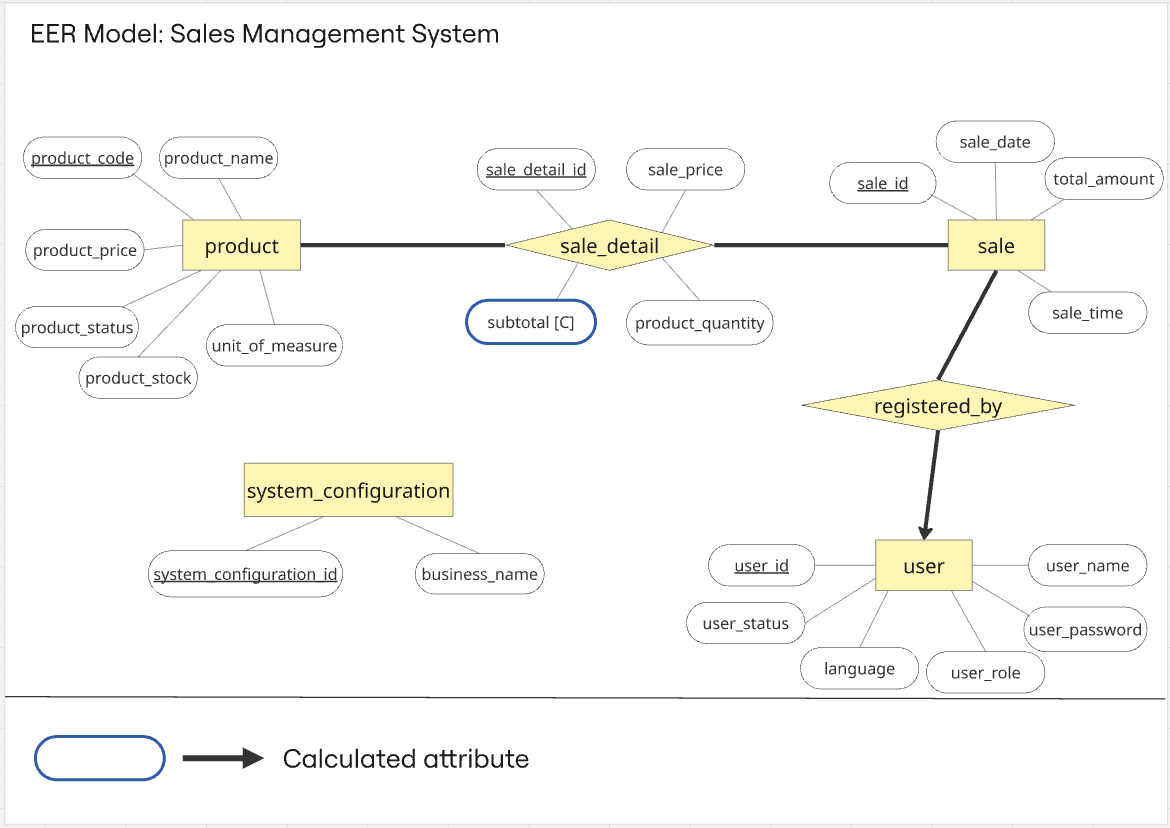
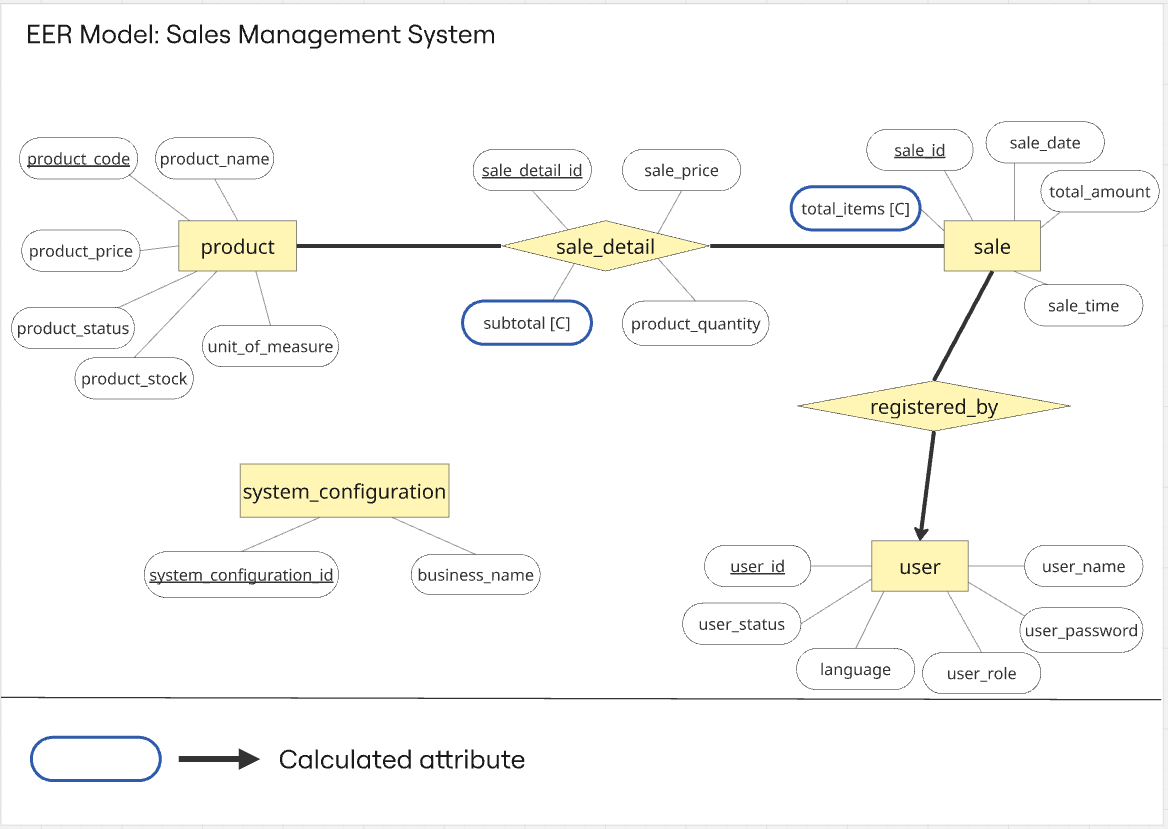
docs: add calculated total_items to EER model

diff --git a/docs/functional_requirements.md b/docs/functional_requirements.md
@@ -276,9 +276,9 @@ The system must allow the user to register sales made in the business, storing t
    - Unique sale identifier (automatically generated by the system)  
    - Sale date  
    - Sale time  
-   - Total items
    - Total amount  
    - User who performed the sale  
+   *Note:* Total items is automatically calculated from the quantities of the products associated with the sale.
 10. The system registers the sale details associated with the sale.  
 11. The system displays a confirmation message: "Sale successfully registered. Do you want to print the receipt?".  
 12. The user confirms receipt printing, invoking the Generate Receipt operation (RF-14).  
